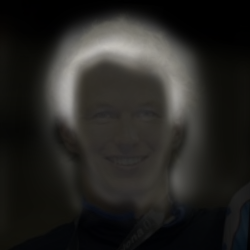
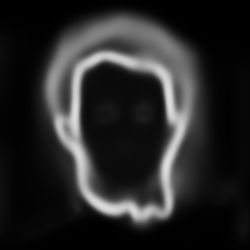
Minor update

diff --git a/tests/test_hair_segmentation.py b/tests/test_hair_segmentation.py
@@ -4,9 +4,18 @@ import numpy as np
 import scipy.io as sio
 import skimage.io as skio
 import matplotlib.pylab as plt
+import subprocess
 from PIL import Image
 
 from utils.path import Path
+
+
+def add_overlay(background, overlay):
+    background = background.convert("RGBA")
+    overlay = overlay.convert("RGBA")
+    new_img = Image.blend(background, overlay, 0.9)
+    new_img = new_img.convert('RGB')
+    return new_img
 
 
 def viz_landmarks(input_img, shapes, columns, rows=1, figsize=(8, 8)):
@@ -16,42 +25,51 @@ def viz_landmarks(input_img, shapes, columns, rows=1, figsize=(8, 8)):
     plt.show()
 
 
-def viz_labelled_face(input_img, landmark, patch_segment,
+def viz_labelled_face(input_img, patch_segments,
                       columns=2, rows=1, figsize=(12, 12)):
     fig = plt.figure(figsize=figsize)
-    for i in range(1, columns * rows + 1):
-        fig.add_subplot(rows, columns, i)
-        plt.imshow(input_img)
-        if i == 1:
-            plt.scatter(x=landmark[:, 0], y=landmark[:, 1], c='w', s=20)
-        else:
-            hair_mask = patch_segment[:, :, 1]
-            plt.imshow(hair_mask, alpha=0.8)
+    hair_patchs = []
+    for p in patch_segments:
+        hair_patch = p[:, :, 1]
+        hair_patch = hair_patch * 255
+        hair_patch.astype('uint8')
+        hair_patchs.append(hair_patch)
+
+    for i in range(columns * rows):
+        fig.add_subplot(rows, columns, i + 1)
+        background = Image.fromarray(input_img)
+        overlay = Image.fromarray(hair_patchs[i])
+        new_img = add_overlay(background, overlay)
+        plt.imshow(overlay)
+
     plt.show()
 
 
-def save_labelled_face(input_img, patch_segment):
+def save_labelled_face(input_img, patch_segment, edge_segment):
     hair_patch = patch_segment[:, :, 1]
-    print('read_label ', type(hair_patch),
-          hair_patch.dtype, hair_patch.shape)
     hair_patch = hair_patch * 255
     hair_patch.astype('uint8')
 
     background = Image.fromarray(input_img)
     overlay = Image.fromarray(hair_patch)
-    background = background.convert("RGBA")
-    overlay = overlay.convert("RGBA")
-    new_img = Image.blend(background, overlay, .9)
-    new_img = new_img.convert('RGB')
+    new_img = add_overlay(background, overlay)
     new_img.save(os.path.join(Path.DEBUG_DIR, 'data/new.png'), 'PNG')
 
 
 if __name__ == '__main__':
+    subprocess.call([
+        'scp',
+        'ntq@192.168.1.200:' +
+        '/home/ntq/thanhtc/hair_segmentation/debug/results/lab.mat',
+        '/home/nero/py/nextsmarty/hair_segmentation/debug/results/'])
     input_img = skio.imread(os.path.join(Path.DEBUG_DIR, 'data/img2.png'))
     landmark = pd.read_csv(os.path.join(Path.DEBUG_DIR, 'data/img2_lm.txt'),
                            header=None, sep=" ").values
     # viz_landmarks(input_img, landmark, columns=1)
-    lab = sio.loadmat(os.path.join(Path.DEBUG_DIR, 'results/lab.mat'))
-    edge_segment, patch_segment = lab['lab'][0][0]
-    # viz_labelled_face(input_img, landmark, patch_segment)
-    save_labelled_face(input_img, patch_segment)
+    lab_M = sio.loadmat(os.path.join(Path.DEBUG_DIR, 'results/lab_M.mat'))
+    lab_P = sio.loadmat(os.path.join(Path.DEBUG_DIR, 'results/lab.mat'))
+    edge_segment_M, patch_segment_M = lab_M['lab'][0][0]
+    edge_segment_P, patch_segment_P = lab_P['lab'][0][0]
+    viz_labelled_face(input_img, [patch_segment_M, patch_segment_P])
+    # viz_labelled_face(input_img, [edge_segment_M, edge_segment_P])
+    # save_labelled_face(input_img, patch_segment_P, edge_segment_P)

diff --git a/src/Face3Classes.py b/src/Face3Classes.py
@@ -19,7 +19,10 @@ def Face3Classes(img, shape, parm):
         # Code for pycaffe interface reprocedure:
         # MATLAB: active = caffe('forward_test', {single(b_img)});
         b_img = np.transpose(b_img, [2, 0, 1])
-        out = net.forward(**{net.inputs[0]: np.asarray([b_img])})
+        # out = net.forward(**{net.inputs[0]: np.asarray([b_img])})
+        # out = np.transpose(np.squeeze(out['conv10']), [1, 2, 0])
+        net.blobs['data'].data[...] = b_img
+        out = net.forward()
         out = np.transpose(np.squeeze(out['conv10']), [1, 2, 0])
         # print(out[:, :, 0])
         # exit()

diff --git a/src/T1_SolverParser.py b/src/T1_SolverParser.py
@@ -43,7 +43,7 @@ def T1_SolverParser(solver_def_file, resume_file):
     for ind in range(lnum):
         if solver['model'][ind]['layer_names'][0][0] == 'fc' + str(ind + 1):
             solver['model'][ind]['layer_names'][0] = \
-                solver['model'][ind]['layer_names'][0].astype('<U6')
+                solver['model'][ind]['layer_names'][0].astype('<U8')
             solver['model'][ind]['layer_names'][0][0] = 'conv' + str(ind + 1)
             weights = solver['model'][ind]['weights'][0][0][0]
             s1, s2 = weights.shape

diff --git a/src/Face3_demo.py b/src/Face3_demo.py
@@ -1,5 +1,5 @@
 import os
-# os.environ['GLOG_minloglevel'] = '2'
+os.environ['GLOG_minloglevel'] = '2'
 import caffe
 import numpy as np
 
@@ -46,11 +46,9 @@ def main():
 
     lab = Face3Classes(img, shape, parm)
     save(os.path.join(parm['result_path'], 'lab.mat'), {'lab': lab})
-    print('Done.')
+    print('Result save to {}'.format(
+        os.path.abspath(os.path.join(parm['result_path'], 'lab.mat'))))
 
 
 if __name__ == '__main__':
-    try:
-        main()
-    except Exception as e:
-        print(e)
+    main()
